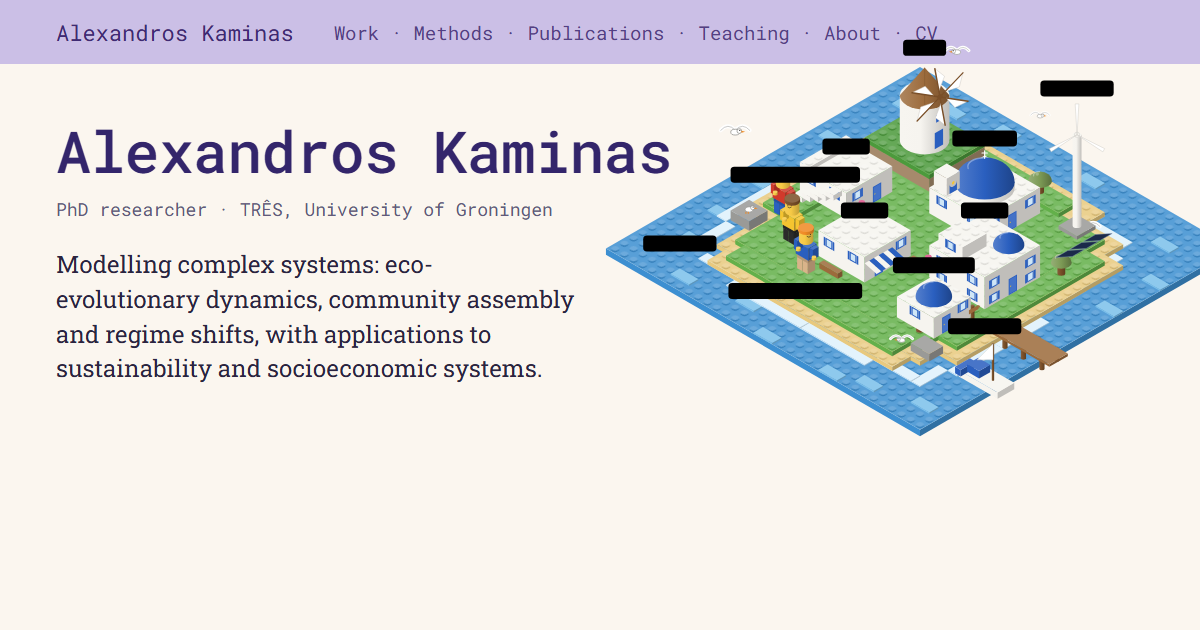
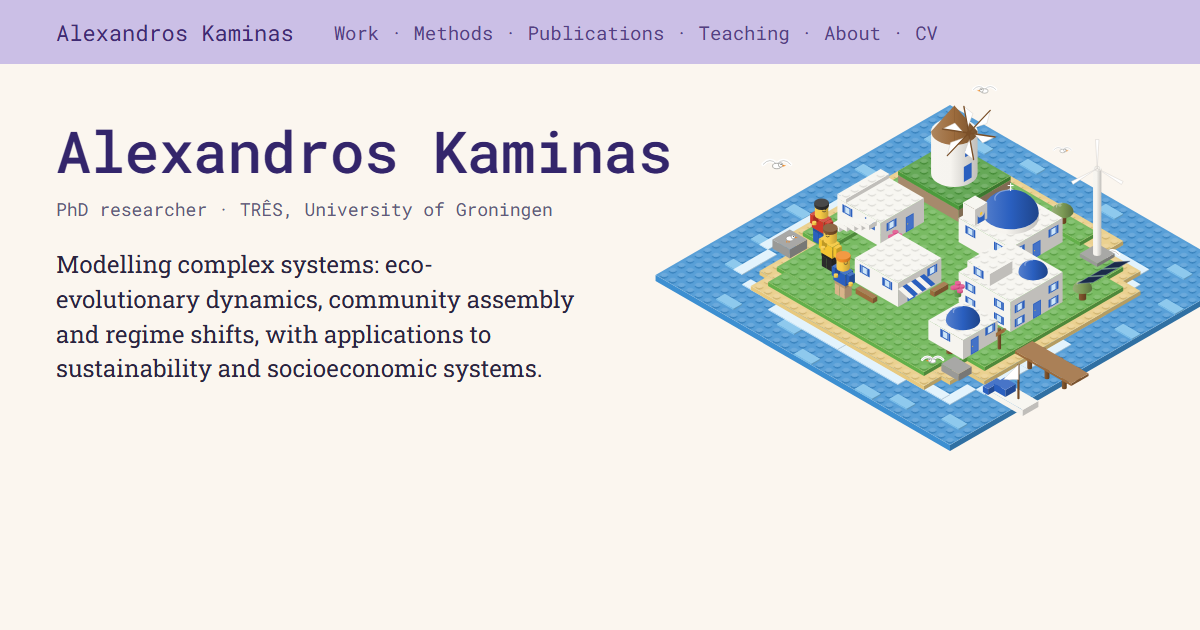
fix: island labels hidden by default so the SVG also works as an image

Changed region(s): [[0.4933, 0.0603, 1.0, 0.7238], [0.8633, 0.1206, 0.925, 0.181]]

diff --git a/scripts/og.html b/scripts/og.html
@@ -18,7 +18,7 @@
       h1 { font-family: 'Roboto Mono', monospace; font-weight: 500; font-size: 58px; margin: 0 0 8px; color: #33256b; letter-spacing: -0.01em; }
       p.role { font-family: 'Roboto Mono', monospace; font-size: 18px; color: #625a7a; margin: 0 0 26px; }
       p.lede { font-size: 24px; line-height: 1.45; max-width: 520px; margin: 0; }
-      .island { position: absolute; right: -40px; top: -30px; width: 640px; }
+      .island { position: absolute; right: -50px; top: 10px; width: 600px; }
       .island img { width: 100%; }
     </style>
   </head>
